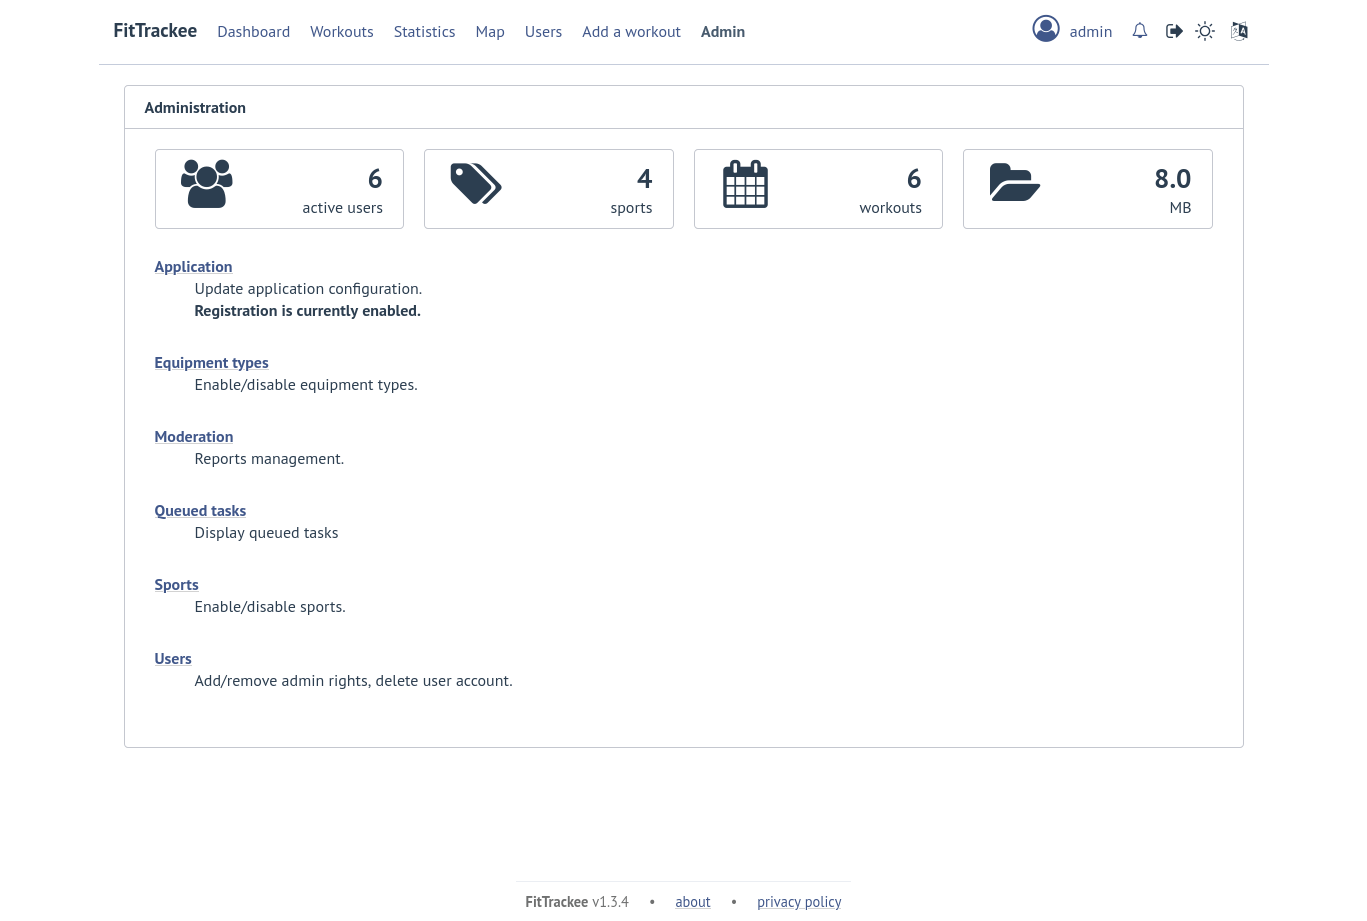
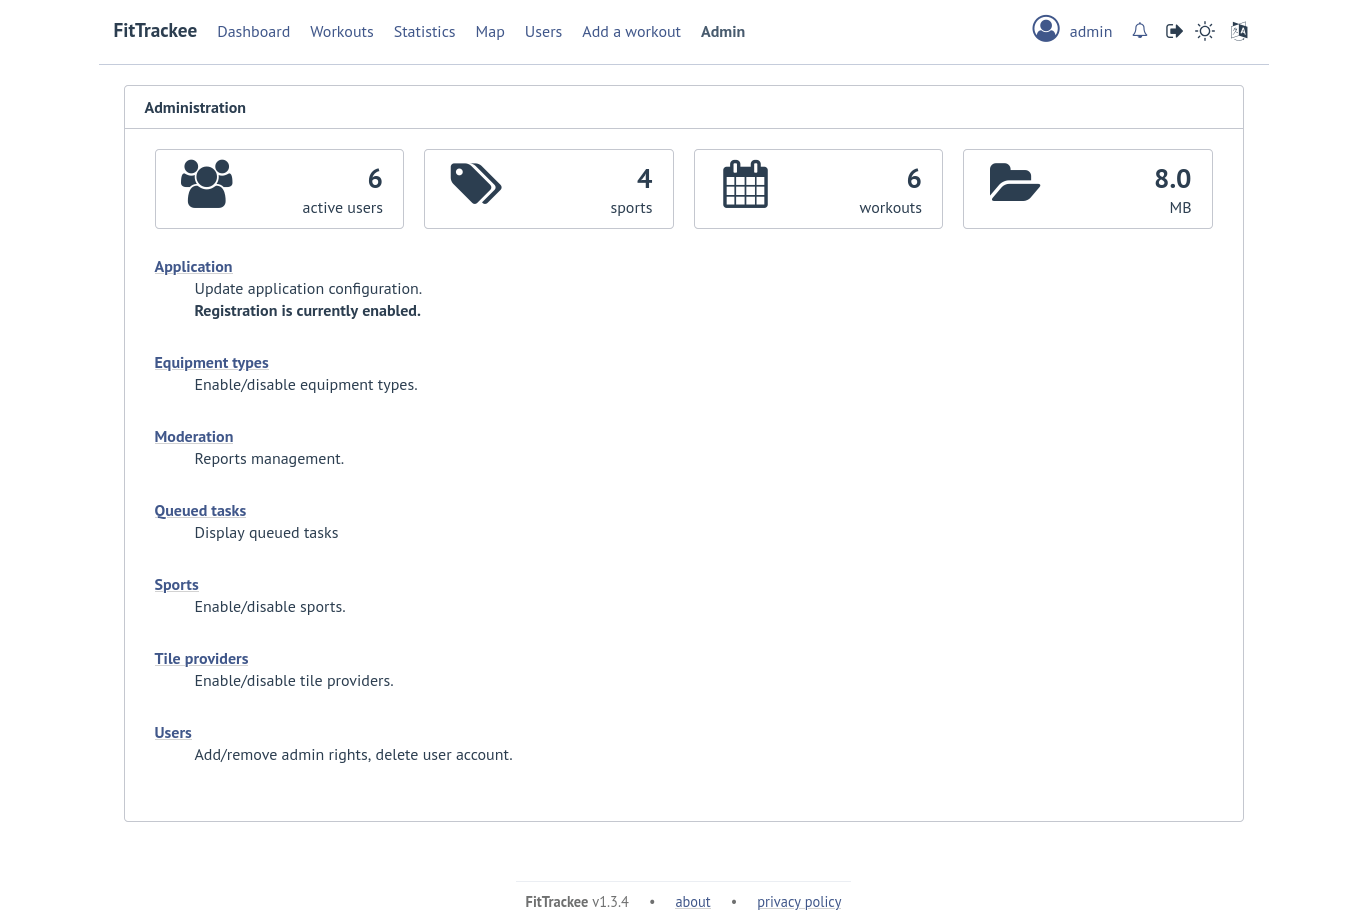
update documentation

Changed region(s): [[0.0922, 0.6992, 0.3687, 0.76], [0.0922, 0.7904, 0.3687, 0.8208]]

diff --git a/fittrackee/application/app_config.py b/fittrackee/application/app_config.py
@@ -281,7 +281,7 @@ def get_application_tile_providers(
     If user has admin rights, it returns tile providers with API key as enabled
     even API key is missing.
     It allows to identify tile providers that are not properly configured
-    in the administration interface, in particular.
+    in the administration interface.
 
     **Example request**:
 
@@ -305,6 +305,7 @@ def get_application_tile_providers(
             {
               "attribution": "<Map Attribution for OpenStreetMap>",
               "default": true,
+              "default_for_user": true,
               "enabled": true,
               "id": "osm",
               "name": "OpenStreetMap",
@@ -312,6 +313,7 @@ def get_application_tile_providers(
             {
               "attribution": "<Map Attribution for CyclOSM>",
               "default": false,
+              "default_for_user": false,
               "enabled": true,
               "id": "cyclosm",
               "name": "CyclOSM",

diff --git a/docsrc/source/installation/environments_variables.rst b/docsrc/source/installation/environments_variables.rst
@@ -62,6 +62,36 @@ deployment method.
 
     :default: 1
 
+.. envvar:: CUSTOM_TILE_PROVIDER_ATTRIBUTION
+
+    .. versionadded:: 1.4.0
+
+    | Map attribution (if using a custom tile server), see `Map tile providers <map_tile_providers.html>`__.
+    | It replaces `MAP_ATTRIBUTION <environments_variables.html#envvar-MAP_ATTRIBUTION>`__ which has been deprecated since version 1.4.0.
+
+    :default: empty string
+
+
+.. envvar:: CUSTOM_TILE_PROVIDER_SUBDOMAINS
+
+    .. versionadded:: 1.4.0
+
+    | Some tile servers require a subdomain, see `Map tile providers <map_tile_providers.html>`__. The subdomain will be chosen randomly.
+    | For instance: "a,b,c" for OSM France.
+    | It replaces `STATICMAP_SUBDOMAINS <environments_variables.html#envvar-STATICMAP_SUBDOMAINS>`__ which has been deprecated since version 1.4.0.
+
+    :default: empty string
+
+.. envvar:: CUSTOM_TILE_PROVIDER_URL
+
+    .. versionadded:: 1.4.0
+
+    | Custom tile server URL (with api key if needed), see `Map tile providers <map_tile_providers.html>`__.
+    | Since **0.4.9**, it's also used to generate static maps (to keep default server, see `DEFAULT_STATICMAP <environments_variables.html#envvar-DEFAULT_STATICMAP>`__)
+    | It replaces `TILE_SERVER_URL <environments_variables.html#envvar-TILE_SERVER_URL>`__ which has been deprecated since version 1.4.0.
+
+    :default: empty string
+
 .. envvar:: DATABASE_DISABLE_POOLING
 
     .. versionadded:: 0.4.0
@@ -86,12 +116,12 @@ deployment method.
     .. versionadded:: 0.4.9
 
     | If ``True``, it keeps using **Static Map 3** default tile server to generate static maps (OSM tile server).
-    | Otherwise, it uses the tile server set in `TILE_SERVER_URL <environments_variables.html#envvar-TILE_SERVER_URL>`__.
+    | Otherwise, it uses the tile server set in `CUSTOM_TILE_PROVIDER_URL <environments_variables.html#envvar-CUSTOM_TILE_PROVIDER_URL>`__.
 
     .. versionchanged:: 0.6.10
 
     | This variable is now case-insensitive.
-    | If ``False``, depending on tile server, `subdomains <environments_variables.html#envvar-STATICMAP_SUBDOMAINS>`__ may be mandatory.
+    | If ``False``, depending on tile server, `subdomains <environments_variables.html#envvar-CUSTOM_TILE_PROVIDER_SUBDOMAINS>`__ may be mandatory.
 
     :default: ``False``
 
@@ -221,10 +251,15 @@ deployment method.
 
     .. versionadded:: 0.4.0
 
-    Map attribution (if using another tile server), see `Map tile server <map_tile_server.html>`__.
+    Map attribution (if using another tile server), see `Map tile providers <map_tile_providers.html>`__.
 
-    :default: ``&copy; <a href="http://www.openstreetmap.org/copyright" target="_blank" rel="noopener noreferrer">OpenStreetMap</a> contributors``
+    .. versionchanged:: 1.4.0
 
+    :default: empty string
+
+    .. warning::
+
+        This variable is deprecated and will be removed in a next version. Please use `CUSTOM_TILE_PROVIDER_ATTRIBUTION <environments_variables.html#envvar-CUSTOM_TILE_PROVIDER_ATTRIBUTION>`__ instead.
 
 .. envvar:: NOMINATIM_URL
 
@@ -271,6 +306,14 @@ deployment method.
     .. note::
         | Some SMTP providers (like GMail) may ignore the sender email and use the email address associated with the SMTP account instead. For Gmail, the workaround is to create an alias.
 
+
+.. envvar:: STADIAMAPS_API_KEY
+
+    .. versionadded:: 1.14.0
+
+    API key for `Stadia Maps <https://stadiamaps.com/>`__ tile provider.
+
+
 .. envvar:: STATICMAP_CACHE_DIR
 
     .. versionadded:: 0.10.0
@@ -287,11 +330,16 @@ deployment method.
 
     .. versionadded:: 0.6.10
 
-    | Some tile servers require a subdomain, see `Map tile server <map_tile_server.html>`__.
+    | Some tile servers require a subdomain, see `Map tile providers <map_tile_providers.html>`__.
     | For instance: "a,b,c" for OSM France.
 
     :default: empty string
 
+    .. versionchanged:: 1.4.0
+
+    .. warning::
+
+        This variable is deprecated and will be removed in a next version. Please use `CUSTOM_TILE_PROVIDER_SUBDOMAINS <environments_variables.html#envvar-CUSTOM_TILE_PROVIDER_SUBDOMAINS>`__ instead.
 
 .. envvar:: TASKS_TIME_LIMIT
 
@@ -302,19 +350,31 @@ deployment method.
     :default: 1800
 
 
+.. envvar:: THUNDERFOREST_API_KEY
+
+    .. versionadded:: 1.14.0
+
+    API key for `Thunderforest <https://www.thunderforest.com/>`__ tile provider.
+
+
 .. envvar:: TILE_SERVER_URL
 
     .. versionadded:: 0.4.0
 
-    | Tile server URL (with api key if needed), see `Map tile server <map_tile_server.html>`__.
+    | Tile server URL (with api key if needed), see `Map tile providers <map_tile_providers.html>`__.
     | Since **0.4.9**, it's also used to generate static maps (to keep default server, see `DEFAULT_STATICMAP <environments_variables.html#envvar-DEFAULT_STATICMAP>`__)
 
     .. versionchanged:: 0.7.23
 
     | The default URL is updated: **OpenStreetMap**'s tile server no longer requires subdomains.
 
-    :default: ``https://tile.openstreetmap.org/{z}/{x}/{y}.png``
+    .. versionchanged:: 1.4.0
 
+    :default: empty string
+
+    .. warning::
+
+        This variable is deprecated and will be removed in a next version. Please use `CUSTOM_TILE_PROVIDER_URL <environments_variables.html#envvar-CUSTOM_TILE_PROVIDER_URL>`__ instead.
 
 .. envvar:: UI_URL
 

diff --git a/docsrc/source/installation/map_tile_providers.rst b/docsrc/source/installation/map_tile_providers.rst
@@ -1,0 +1,41 @@
+Map tile providers
+##################
+
+.. versionadded:: 0.4.0 added possibility to change map tile provider
+.. versionchanged:: 0.6.10 handle tile server subdomains
+.. versionchanged:: 0.7.23 default tile server (**OpenStreetMap**) no longer requires subdomains
+.. versionchanged:: 1.4.0 add possibility to set several tile providers
+
+Tile providers are used to display workouts on map (in Workout details, Workouts list and Global map) and for static map thumbnails generation.
+
+The following tile providers can be set in `Administration <../features/administration.html#tile-providers>`_:
+
+- `OpenStreetMap (Standard tile layer) <https://www.openstreetmap.org/>`__, id: ``osm``
+- `OpenStreetMap (German variant of the Standard tile layer) <https://openstreetmap.de/>`__, id: ``osm_de``
+- `OpenStreetMap (French variant of the Standard tile layer) <https://www.openstreetmap.fr/fonds-de-carte/>`__, id: ``osm_fr``
+- `CyclOSM <https://www.cyclosm.org>`__., id: ``cyclosm``
+- `Stadia Maps <https://stadiamaps.com/>`__ (`Alidade Smooth <https://stadiamaps.com/explore-the-map/#style=alidade_smooth>`__ (id ``stadiamaps_alidade_smooth``) and `Outdoors <https://stadiamaps.com/explore-the-map/#style=outdoors>`__ (id ``stadiamaps_outdoors``)). This provider requires an API key (see `STADIAMAPS_API_KEY <environments_variables.html#envvar-STADIAMAPS_API_KEY>`__ )
+- `Thunderforest <https://www.thunderforest.com/>`__ (`Landscape <https://www.thunderforest.com/maps/landscape/>`__ (id ``thunderforest_landscape``) and `Outdoors <https://www.thunderforest.com/maps/outdoors/>`__ (id ``thunderforest_outdoors``)). This provider requires an API key (see `THUNDERFOREST_API_KEY <environments_variables.html#envvar-THUNDERFOREST_API_KEY>`__ )
+
+Default tile server is **OpenStreetMap**'s standard tile layer (if environment variables are not initialized).
+
+It is possible to set a custom tile provider (id: ``custom``) by updating the following variables:
+
+- `CUSTOM_TILE_PROVIDER_URL <environments_variables.html#envvar-CUSTOM_TILE_PROVIDER_URL>`__
+- `CUSTOM_TILE_PROVIDER_ATTRIBUTION <environments_variables.html#envvar-CUSTOM_TILE_PROVIDER_ATTRIBUTION>`__
+- `CUSTOM_TILE_PROVIDER_SUBDOMAINS <environments_variables.html#envvar-CUSTOM_TILE_PROVIDER_SUBDOMAINS>`__
+
+.. note::
+    | Check the terms of service of tile provider for map attribution.
+
+.. figure:: ../_images/tile-providers-administration-with-custom-tile-provider.png
+  :alt: Tile providers administration on FitTrackee, with a custom tile provider
+
+(see `list of tile servers <https://wiki.openstreetmap.org/wiki/Raster_tile_providers>`__).
+
+.. warning::
+    | The previous variables have been deprecated and will be removed in a next version:
+    | - `TILE_SERVER_URL <environments_variables.html#envvar-TILE_SERVER_URL>`__
+    | - `MAP_ATTRIBUTION <environments_variables.html#envvar-MAP_ATTRIBUTION>`__
+    | - `STATICMAP_SUBDOMAINS <environments_variables.html#envvar-STATICMAP_SUBDOMAINS>`__
+    | If a tile provider was set before v1.4.0, it is preserved as a custom tile provider.

diff --git a/docsrc/source/features/administration.rst b/docsrc/source/features/administration.rst
@@ -131,6 +131,26 @@ Sports
 | It allows to enable or disable a sport (a sport can be disabled even if workout with this sport exists).
 
 
+Tile providers
+**************
+
+.. versionadded:: 1.4.0
+
+Only users with administration rights can access tile providers administration.
+
+.. figure:: ../_images/tile-providers-administration.png
+  :alt: Tile providers administration on FitTrackee
+
+| It allows to enable or disable a tile provider.
+| A provider can be disabled even if it is set as default tile provider by a user. In this case, the default provider is used instead.
+| If a tile provider associated with an API key is enabled and then the API key removed, it still appears as enabled to users with administration rights.
+
+See `Map tile providers <../installation/map_tile_providers.html>`__ for more information.
+
+.. warning::
+
+  The application (and workers) should be restarted for the changes to be effective.
+
 Users
 *****
 

diff --git a/docsrc/source/features/workout.rst b/docsrc/source/features/workout.rst
@@ -578,6 +578,7 @@ Map
 .. versionchanged:: 0.5.0 added full screen and reset control
 .. versionchanged:: 0.11.0 added heatmap for racket sports
 .. versionchanged:: 1.3.0 photos with coordinates are displayed on map
+.. versionchanged:: 1.4.0 added possibility to select a tile layer, when several tile provider are set
 
 | A map is displayed for workout with a file with the tile server set by the administrators (OpenStreetMap's standard tile layer by default).
 | Controls allow full screen view and position reset.
@@ -587,6 +588,12 @@ If workout is associated to photos and those photos have GPS coordinates, they a
 
 .. figure:: ../_images/map-with-photos.png
    :alt: Map with photos
+
+If several tile providers are set, the tile layer can be selected:
+
+.. figure:: ../_images/map-tile-layers-menu.png
+   :alt: Map menu displaying different tile layer
+
 
 
 Chart

diff --git a/docsrc/source/features/oauth.rst b/docsrc/source/features/oauth.rst
@@ -28,9 +28,11 @@ Scopes
 .. versionchanged:: 0.9.0 added ``follow``, ``notifications``, ``reports`` scopes and added comments to ``workouts`` scopes
 .. versionchanged:: 1.0.0 added ``geocode`` scope
 .. versionchanged:: 1.3.0 added ``media`` scope
+.. versionchanged:: 1.4.0 added ``application:read`` scope
 
 The following scopes are available:
 
+- ``application:read``: grants read access to application configuration (only for users with administration rights),
 - ``application:write``: grants write access to application configuration (only for users with administration rights),
 - ``equipments:read``: grants read access to equipments endpoints,
 - ``equipments:write``: grants write access to equipments endpoints,

diff --git a/docsrc/source/features/account_and_preferences.rst b/docsrc/source/features/account_and_preferences.rst
@@ -39,6 +39,7 @@ Preferences
 .. versionchanged:: 0.11.0 preferred displayed for charts
 .. versionchanged:: 1.1.0 missing elevation processing
 .. versionchanged:: 1.3.0 added media visibility
+.. versionchanged:: 1.4.0 added default tile provider
 
 .. figure:: ../_images/user-preferences.png
    :alt: User Preferences on FitTrackee
@@ -55,6 +56,7 @@ For account, it is possible to set:
 
 For workouts, it is possible to choose:
 
+- default tile provider
 - between metric system and imperial system for distance, elevation and speed display
 - to display or hide ascent records and total on Dashboard
 - the preferred display for workout chart:

diff --git a/docsrc/source/features/workouts_list.rst b/docsrc/source/features/workouts_list.rst
@@ -9,6 +9,7 @@ Workouts list
 .. versionchanged:: 0.9.7 added average distance, average duration, average ascent and average descent displayed in statistics
 .. versionchanged:: 1.0.0 added filter on location and radius, map for filtered workouts
 .. versionchanged:: 1.1.0 added filter and sort option on pace
+.. versionchanged:: 1.4.0 added possibility to select a tile layer, when several tile provider are set
 
 By default, the last 10 workouts are displayed in the list.
 

diff --git a/docsrc/source/api/configuration.rst b/docsrc/source/api/configuration.rst
@@ -4,4 +4,6 @@ Configuration
 .. autoflask:: fittrackee:create_app()
    :endpoints:
     config.get_application_config,
-    config.update_application_config
+    config.update_application_config,
+    config.get_application_tile_providers,
+    config.set_application_tile_providers

diff --git a/docsrc/source/features/global_map.rst b/docsrc/source/features/global_map.rst
@@ -2,6 +2,7 @@ Global map
 ##########
 
 .. versionadded:: 1.0.0
+.. versionchanged:: 1.4.0 added possibility to select a tile layer, when several tile provider are set
 
 User workouts can be displayed on a global map and filtered by date and sports.
 

diff --git a/docsrc/source/installation/index.rst b/docsrc/source/installation/index.rst
@@ -96,7 +96,7 @@ Prerequisites
    installation
    upgrade
    deployment
-   map_tile_server
+   map_tile_providers
    weather
    elevation
    emails
